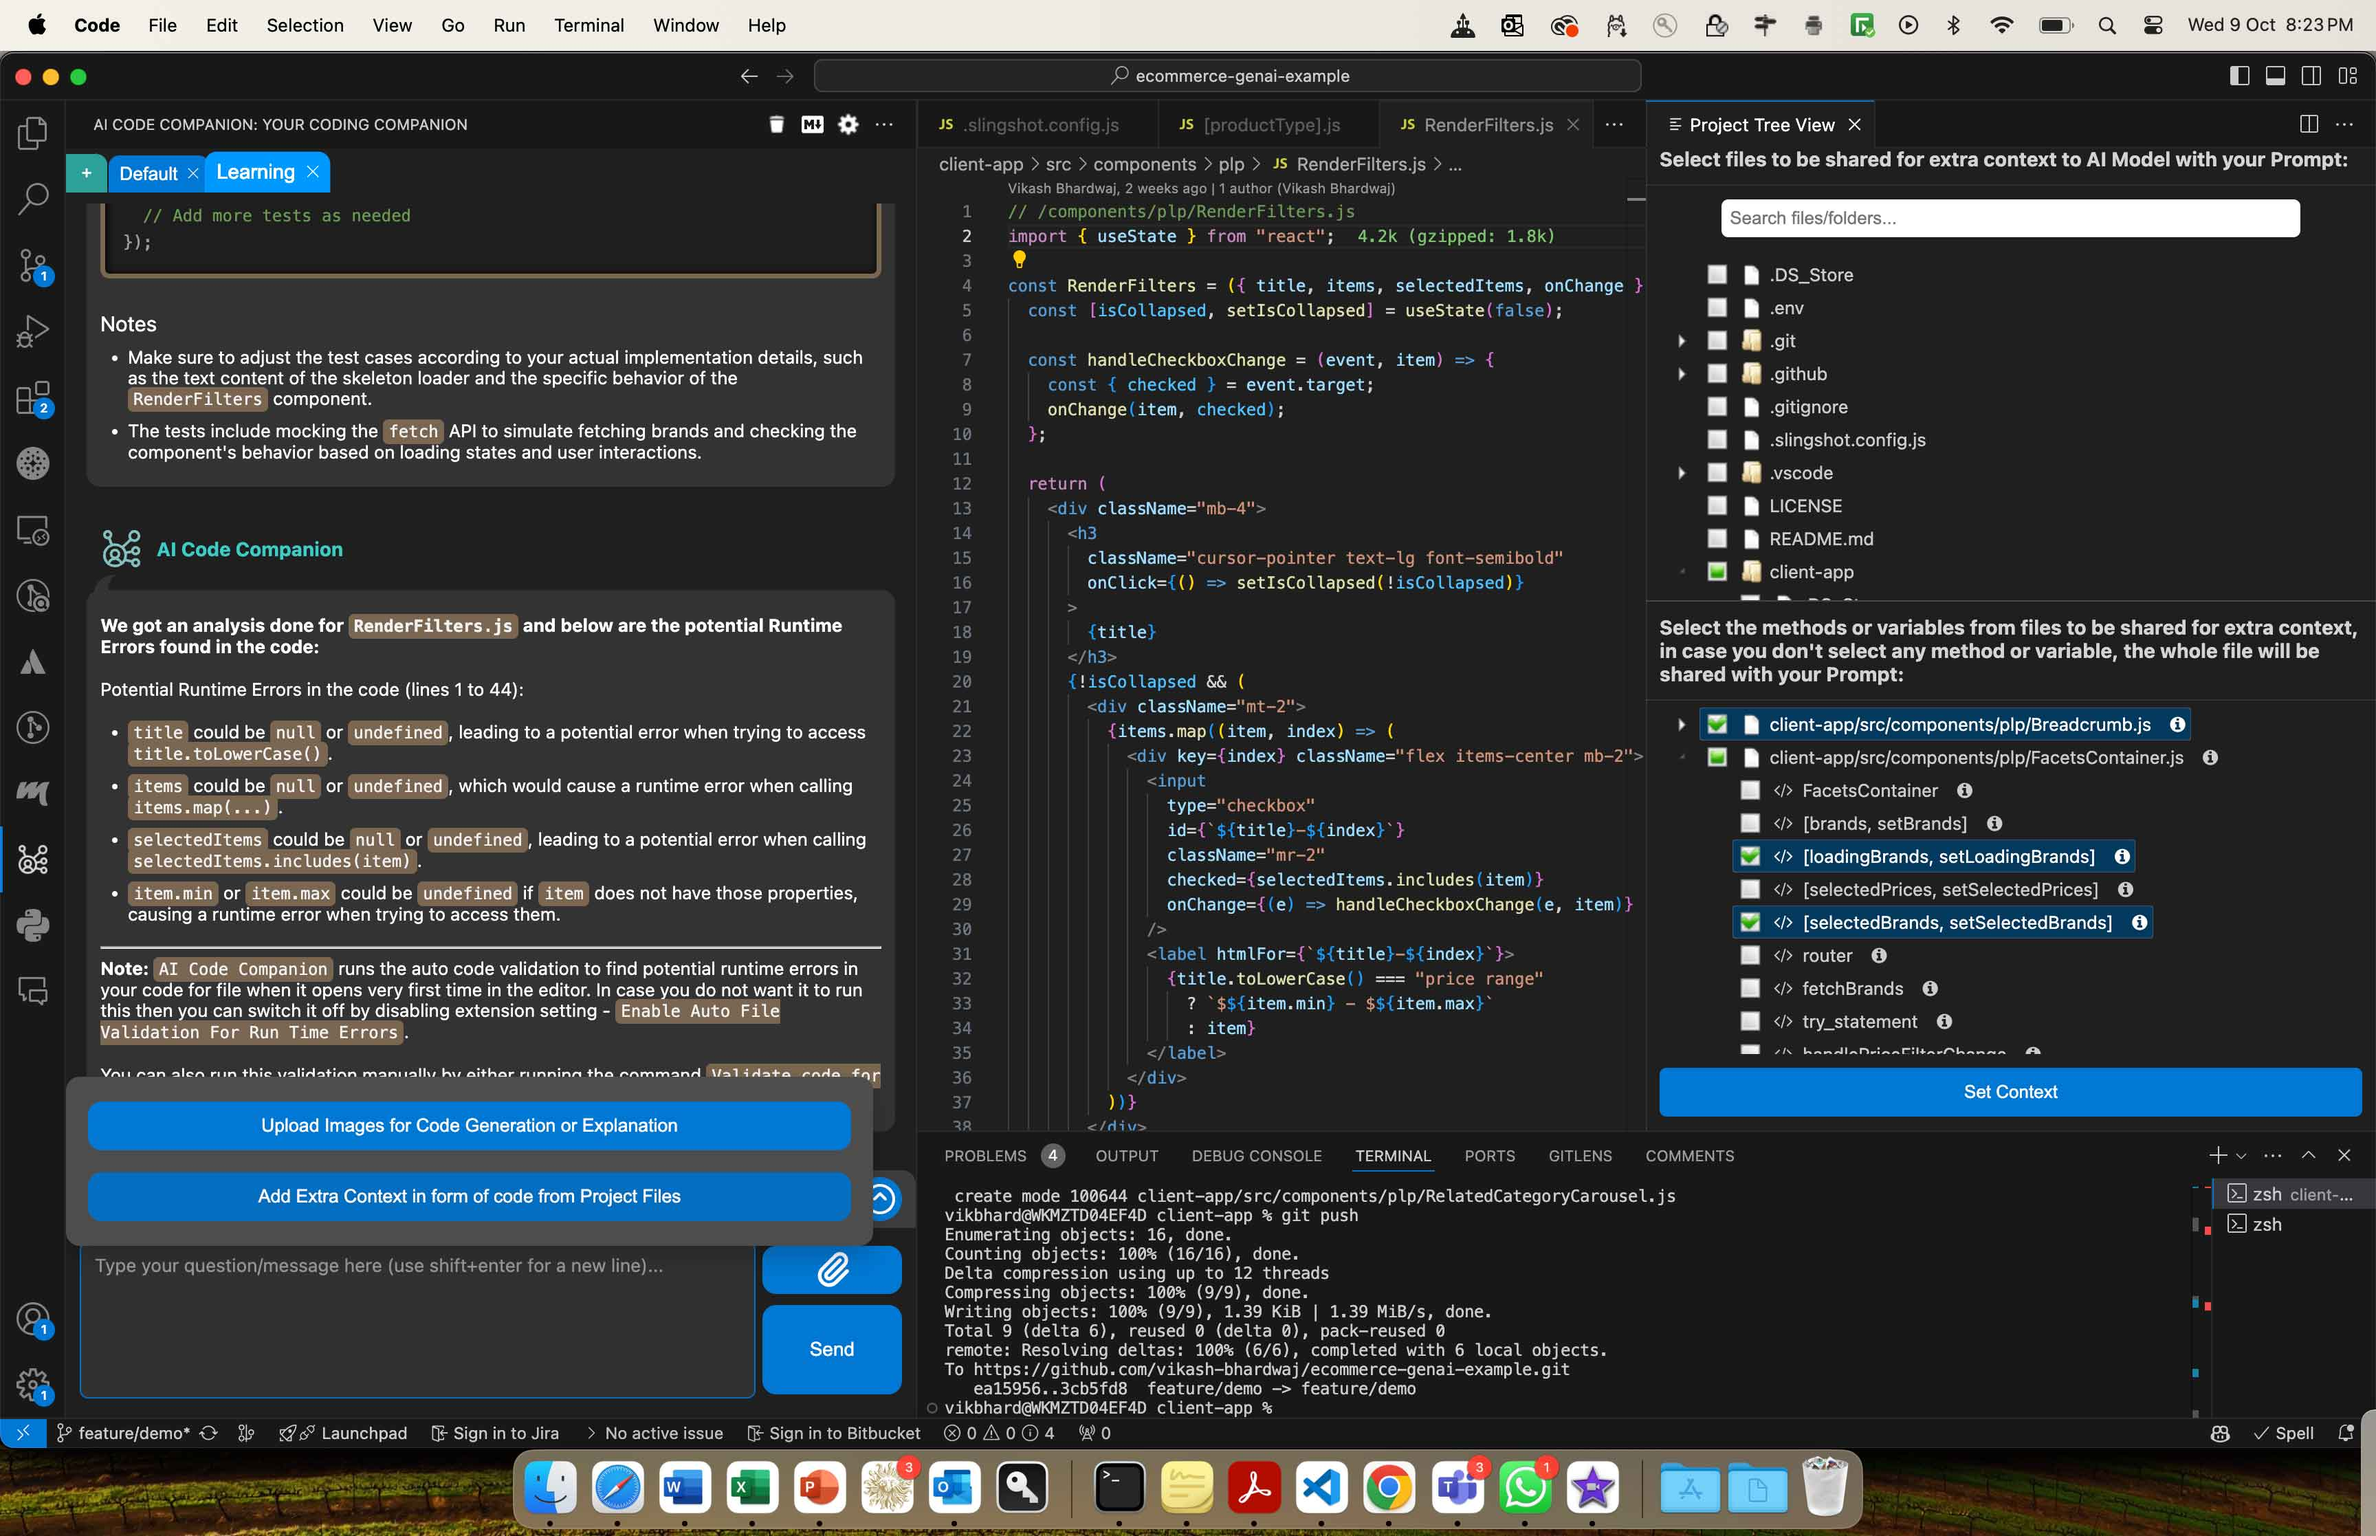
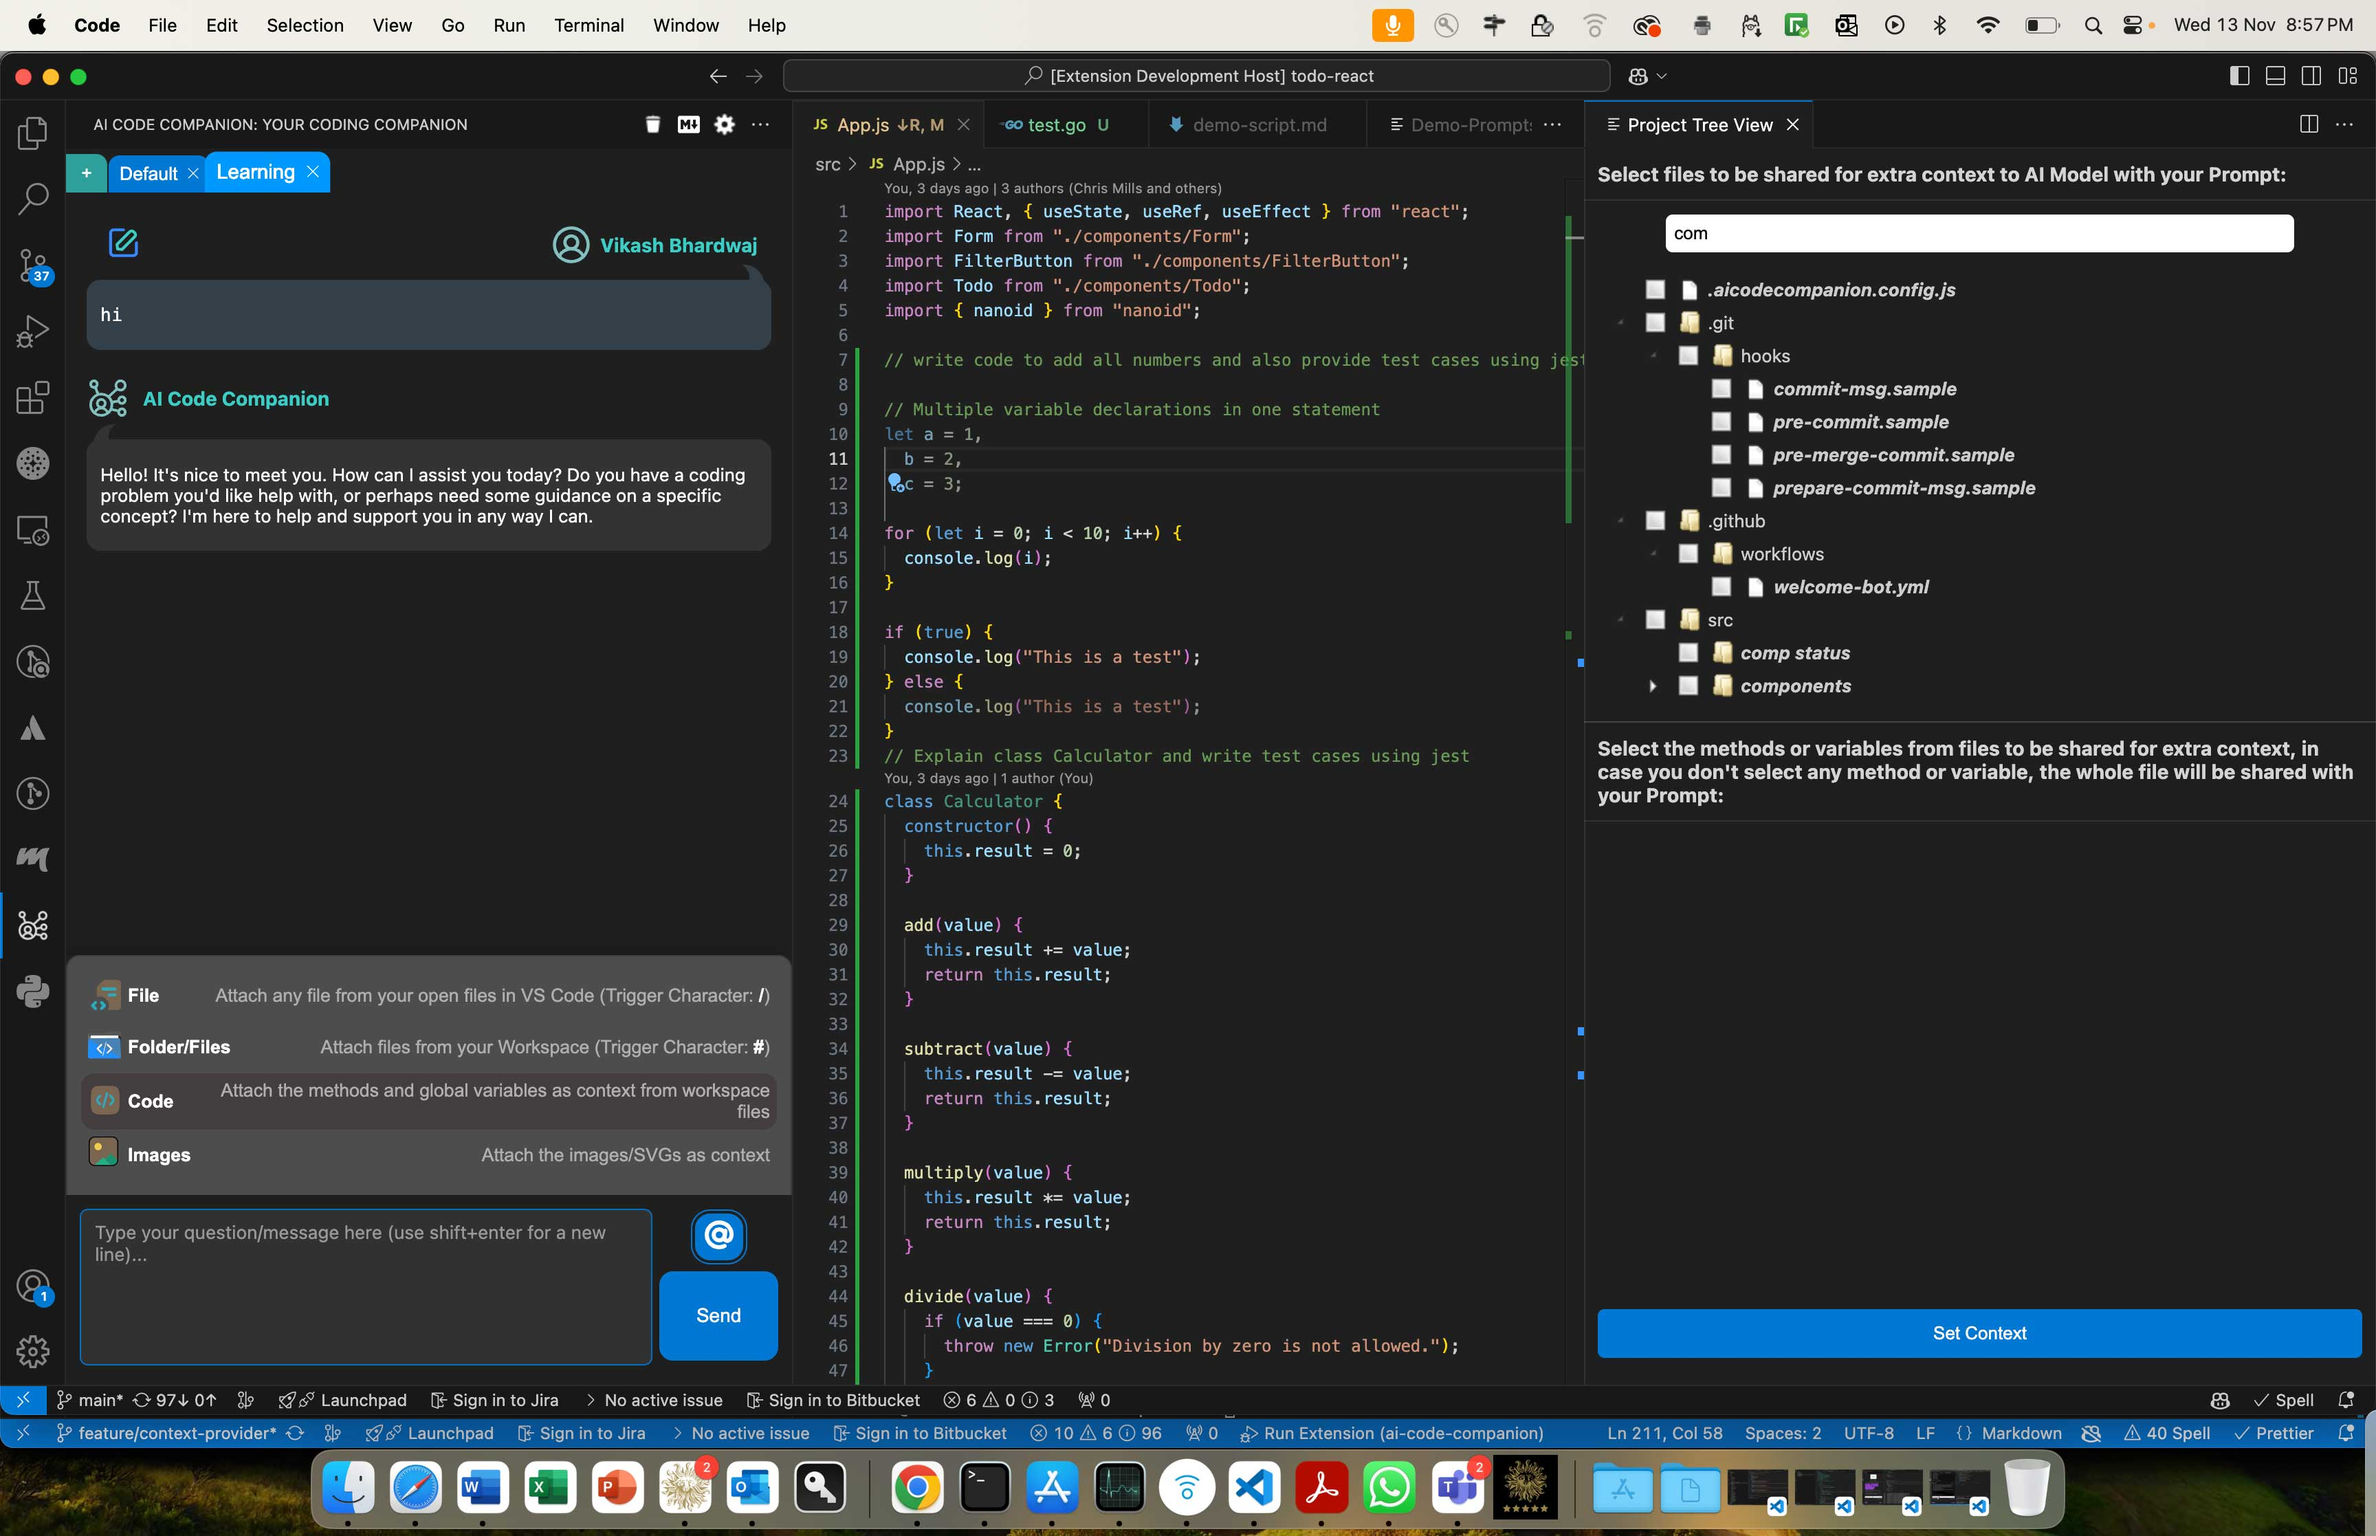
updated read me for 2.1.0

diff --git a/README.md b/README.md
@@ -9,6 +9,11 @@ This Visual Studio extension is designed to enhance the productivity of engineer
 - Install the extension either by visiting Visual Studio Code [marketplace page](https://marketplace.visualstudio.com/items?itemName=vikash-bhardwaj.aicodecompanion) or search the extension in the "Extensions" activity bar tab with name "AI Code Companion" by vikash-bhardwaj
 - Post installation please refer to the below [set-up section](#setup)
 - <strong style="color: red">Important!!</strong> - Post setting up the accesskey for your selcted AI provider please ensure you also check the model name in the settings. If you are using `PSChat` as your AI Data Provider then please change the model name because default model name will not work as is with PSChat. While you can check the respective AI Provider docs for all model names provided by your AI Provider, you can use `gpt-3.5-turbo` or `gpt-3.5-turbo-16k` for OpenAI & `gpt35turbo` or `gpt4` For PSChat.
+- <strong style="color: red">**Note for local `Ollama` Models integration to work without Internet**</strong> - Please download and install `Ollama` and start it to work with different `Ollama` Models.
+  - Download the installer and install `Ollala` from <a href="https://ollama.com/download">Download Ollama Page</a>
+  - Follow the docs to download the model of your choice by following the - <a href="https://github.com/ollama/ollama">Documentation page</a>
+  - Once yuu download the model, open extension settings and change the `API Key` dropdown value to `Ollama Chat` and update `Model Name` field with downloaded model like "llama3.2:latest" or "Mistral" or "llava", etc. (Please change the settings in "Workspace" Tab in case that exist as "Users" Tab setting wont work if Workspace Tab exist).
+  - In case you have higher configuration machine to run local models then you can also play around changing the `Model Max Token Length` to higher number like `64000` for retaining the longer chat context in history. For my 18GB RAM I was not able to go above `32000` as it was turning to be so slow to respond.
 - <strong style="color: red">**Note for `Azure Open AI` Set-up**</strong> - Extension has ability to connect to Azure OpenAI API through `API Key Authentication` and `Microsoft Entra Authentication` method. Please refer [Azure OpenAI Service REST API reference](https://learn.microsoft.com/en-us/azure/ai-services/openai/reference) for more information on authenticating for Azure Open AI.
 
   If you choose to use Azure OpenAI as your service provider, follow these steps to set up the API Endpoint for extension before referring to the below [set-up section](#setup):
@@ -60,11 +65,16 @@ This Visual Studio extension is designed to enhance the productivity of engineer
 - Provide capability to upload Images or SVG to write code, just upload the Figma Images and get your Components created with all required dependencies including CSS Styles. You can also use this feature to write code or explain the provided diagrams.
 - Auto validation of complete code file to identify potential Run Time errors available in code with details to fix them. You can disable this feature from settings and manually run the command `Validate Code for Potential Runtime Errors` to do the validation for a file.
 - Very easy to add Context from multiple files to your prompt, please refer below screenshots to see how you can add files/Folders and Specific methods/code blocks as context to speed up the development and get quality code generation based on your context:
+  - Use `@` keyword as trigger sequence in Chat Input Box to attach different type of context like opened files from editor, files from Workspace, Code Blocks, Images.
+  - Use `/` keyword as trigger sequence in Chat Input Box to open the files drawer for adding them as context from any of the opened files in editor to your prompt. You can filter the list with typing the file name with slash keyword.
+  - Use `#` keyword as trigger sequence in Chat Input Box to open the Workspace drawer for adding files as context to your prompt.
   - Select the Code and say `Add Code as Extra Context to Prompt` with right click context menu, refer the first screenshot "add-code-block-as-context".
   - Right click on file/folder in explorer or editor and say `Add File as Extra Context to Prompt`, refer the second & third screenshots "add-code-file-as-context" and "add-code-file-as-context-from-editor".
   - Simply open a Complete File explorer and attach either code blocks or files as context, refer the fourth screenshot "add-code-block-files-as-context-from-explorer".
     <br /><img src="./assets-readme/add-code-block-as-context.jpg" alt="Add selected code block as Context" width="47%" /> <img src="./assets-readme/add-code-file-as-context.jpg" alt="Add file as context from file explorer" width="47%" />
-    <br /><img src="./assets-readme/add-code-file-as-context-from-editor.jpg" alt="Add file as context from editor" width="47%" /> <img src="./assets-readme/add-code-block-files-as-context-from-explorer.jpg" alt="Add file as context from External Companion Explorer" width="47%" />
+    <br /><img src="./assets-readme/extension-at-the-rate-drawer.jpg" alt="At the rate Context Drawer" width="47%" /> <img src="./assets-readme/extension-attach-files-with-files-drawer.jpg" alt="Attach file Drawer with slash key" width="47%" />
+    <br /><img src="./assets-readme/extension-attach-files-with-workspace-drawer.jpg" alt="Attach files from workspace drawer with hash key" width="47%" /> <img src="./assets-readme/add-code-file-as-context-from-editor.jpg" alt="Add file as context from editor" width="47%" />
+    <br /><img src="./assets-readme/add-code-block-files-as-context-from-explorer.jpg" alt="Add file as context from External Companion Explorer" width="47%" />
 - `Automated Code Reviews` for your `GIT` changes, with just one click of a button you can now review the changes in your GIT repository. `AI Code Companion` will go through all of your GIT changes(modified and added files) and provide you comments. You can also provide your custom prompt message while running the code review action. You can play around this by running it multiple times to get different perspectives and improve code quality.
   - You can use this feature by two ways:
     - Either with help of Button `Review GIT Changes and create notes for your PR` provided in the Extension Interface or by Running the Command for same from command palatte(refer below screenshots)
@@ -248,6 +258,15 @@ This extension collects certain data for the purpose of interacting with APIs pr
 - If Inline comment execution is in progress then Code Review for GIT changes will not work or vice versa
 
 ## <a name="release-notes"></a>Release Notes
+
+### [2.1.0]
+
+#### New Features
+
+- Added Capability to work with local `Ollama` models which allow users to work with AI without internet connection.
+- Added Capability to make the attach file as context much more easy with `@` keyword from Chat Input Box. With this feature users can simply type `@` to open all options to attach different type of context. Users can also use `/` to open the Opened files drawer in editor to attach them as context and similarly use `#` to open Workspace Drawer to add any file as context from workspace.
+- Fixed a defect where Attach Code as Context window was not working.
+- Redesigned the attach context Button.
 
 ### [2.0.0]
 
